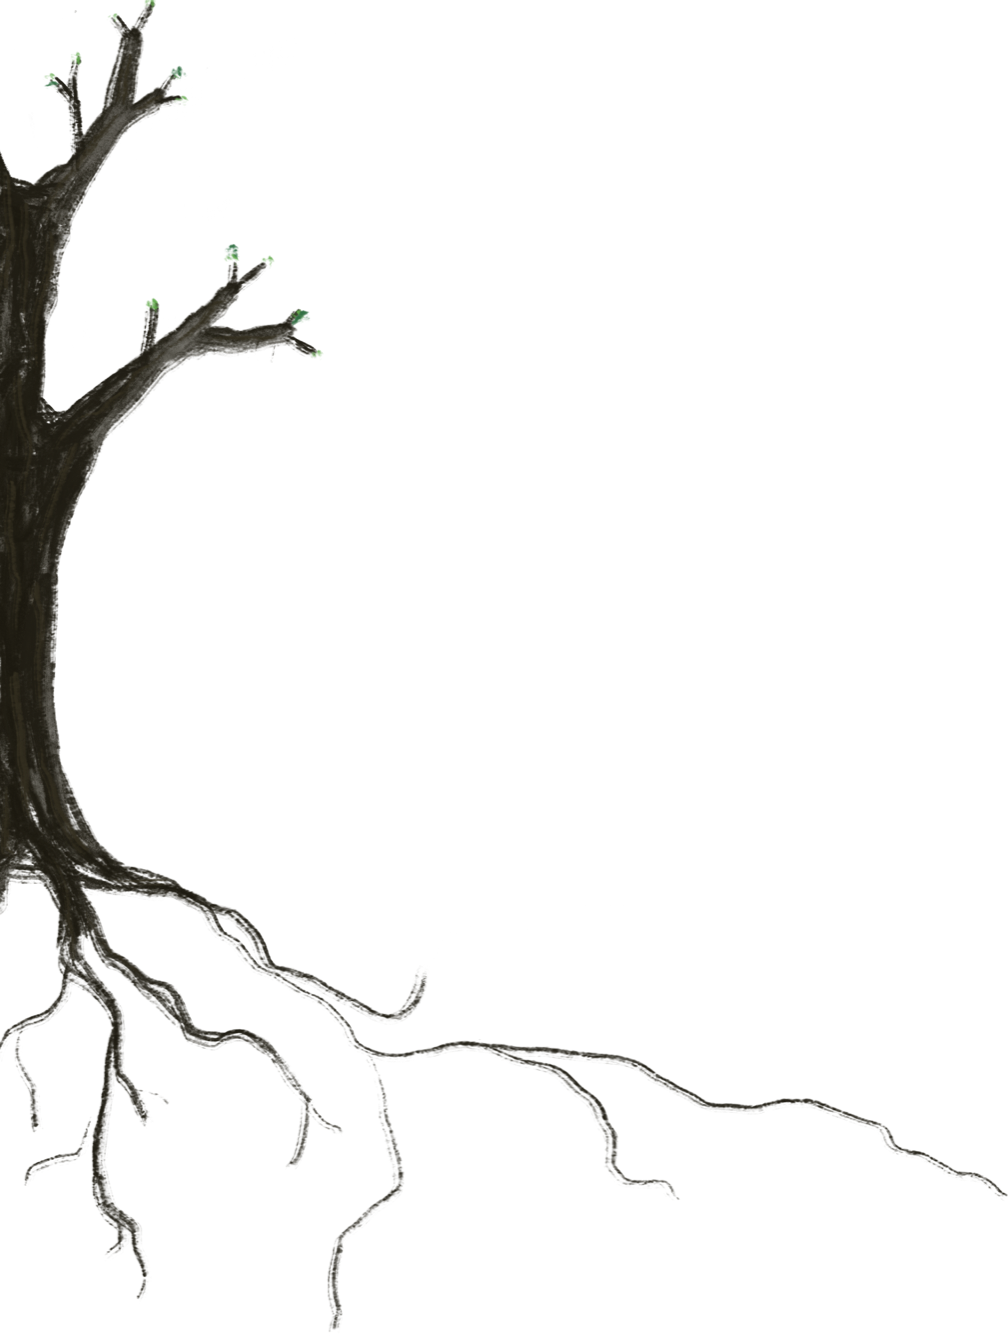
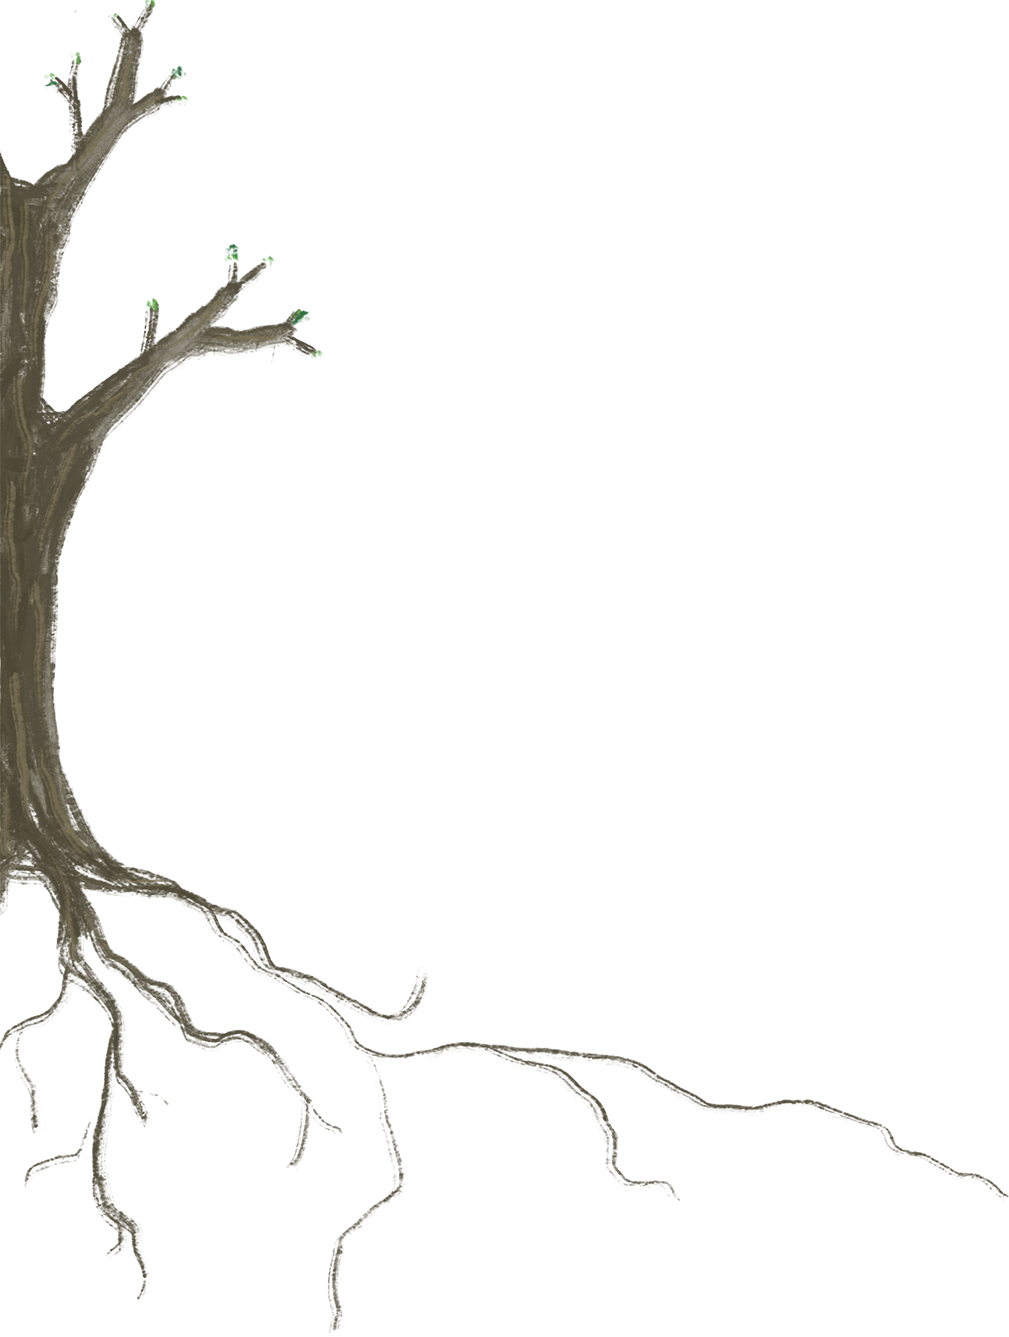
illu

diff --git a/retreat.css b/retreat.css
@@ -33,6 +33,7 @@
   --hero-tekst: #f3ecde;
   --hero-label: #c9bfae;
   --hero-zin: #b9ab9a;
+  --hero-feitje: #4f6c86; /* de feitjes die verschijnen bij de groenten en de boom */
   --knop-hover: #1b2233;
 
   --licht: #f6e2b5; /* de maan */
@@ -60,6 +61,7 @@
   --hero-tekst: #2a2420;
   --hero-label: #56616a;
   --hero-zin: #6f5f50;
+  --hero-feitje: #7295ac;
   --knop-hover: #f7f4ec;
 
   --licht: #f6d06b; /* de zon */
@@ -270,8 +272,14 @@ h3 {
 
 /* twee lagen die in elkaar overlopen als je wisselt: per stand een lucht en een bodem */
 .hero {
-  --veg-h: clamp(140px, 20vw, 280px); /* hoogte van de getekende groenten (de boerenkool) */
-  --diep: calc(var(--veg-h) * 0.75); /* hoeveel ruimte er onder de grondlijn is voor de wortels */
+  --veg-h: clamp(
+    140px,
+    20vw,
+    280px
+  ); /* hoogte van de getekende groenten (de boerenkool) */
+  --diep: calc(
+    var(--veg-h) * 0.75
+  ); /* hoeveel ruimte er onder de grondlijn is voor de wortels */
   --zin-ruimte: 200px; /* hoeveel aarde er onder de groenten zit */
 }
 
@@ -644,6 +652,16 @@ h3 {
 /* hier komen de getekende groenten (png met transparante achtergrond).
    elke groente heeft een eigen formaat via --s in de html: 1 is de standaardhoogte, 0.7 is kleiner */
 .groenten {
+  /* SPELEN MET DE AFSTANDEN: vw is een procent van de schermbreedte, dus 10vw = 10% van het scherm.
+     --tussen: de ruimte tussen de eerste twee groenten, en tussen de laatste twee
+     --midden: de lege plek in het midden, tussen de tweede en de derde groente
+     --boom-ruimte: extra ruimte links van de eerste groente, zodat die verder van de boom af staat.
+     de rij staat in het midden van het scherm: maak je --boom-ruimte groter en --midden
+     even veel kleiner, dan schuiven alleen de eerste twee groenten op en blijven de laatste twee staan */
+  --tussen: 5vw;
+  --midden: 35vw;
+  --boom-ruimte: 4vw;
+
   position: relative;
   z-index: 2;
   display: flex;
@@ -651,7 +669,7 @@ h3 {
   flex-wrap: nowrap; /* altijd naast elkaar, nooit een rij lager */
   justify-content: center;
   align-items: flex-end;
-  gap: clamp(8px, 7vw, 110px); /* ruimte tussen de groenten: groter getal = verder uit elkaar */
+  gap: var(--tussen);
   min-height: clamp(160px, 20vw, 260px);
   margin-top: 40px;
   padding: 0 16px;
@@ -660,12 +678,21 @@ h3 {
 /* als er te weinig breedte is, krimpen de plaatjes mee en blijven ze op de grondlijn staan */
 .groente {
   position: relative;
-  display: flex;
-  align-items: flex-end;
+  display: grid; /* zo liggen de winter- en de lenteversie precies op elkaar */
+  align-items: end;
   flex: 0 1 auto;
   min-width: 0;
   margin: 0;
   outline: none;
+}
+
+/* de derde groente krijgt de lege plek in het midden aan zijn linkerkant */
+.groente:nth-of-type(3) {
+  margin-left: var(--midden);
+}
+
+.groente:first-of-type {
+  margin-left: var(--boom-ruimte);
 }
 
 .groenten img {
@@ -678,6 +705,54 @@ h3 {
   object-position: 50% 100%;
   /* schuif het plaatje omlaag tot het stuk onder de grond (--g) precies onder de grondlijn zit */
   margin-bottom: calc(var(--diep) - var(--veg-h) * var(--s, 1) * var(--g, 0));
+  grid-area: 1 / 1;
+  transition: opacity 1s;
+}
+
+/* de winterversie en de lenteversie wisselen mee met de schakelaar (groenten en boom) */
+.groenten .v-lente,
+:root[data-thema="lente"] .groenten .v-winter {
+  opacity: 0;
+}
+
+:root[data-thema="lente"] .groenten .v-lente {
+  opacity: 1;
+}
+
+/* een groente met een class="v-hover" plaatje verandert daarin zolang je eroverheen beweegt
+   (in winter en lente). haal je de muis weg, dan wordt hij weer gewoon */
+/* met visibility in plaats van opacity: dan springt hij in één keer om, zonder dat je
+   de twee plaatjes even over elkaar ziet. de wissel winter/lente blijft wel zacht overvloeien */
+.groenten .v-hover {
+  visibility: hidden;
+  /* --hover-s: hoeveel groter het hover-plaatje is. 1 = even groot, 1.15 = 15% groter.
+     --hover-g: net als --g, maar dan voor het hover-plaatje: welk deel (van onderaf) onder de grond zit.
+     dat punt komt precies op de grondlijn, en vanuit daar groeit hij */
+  transform: translateY(calc((var(--hover-g, var(--g, 0)) - var(--g, 0)) * 100%)) scale(var(--hover-s, 1.15));
+  transform-origin: 50% calc((1 - var(--hover-g, var(--g, 0))) * 100%);
+}
+
+.groente:hover .v-hover {
+  visibility: visible;
+}
+
+/* het feitje schuift omhoog tot boven het (grotere) hover-plaatje, zodat het er niet doorheen loopt.
+   dit rekent uit hoeveel hoger de bovenkant van het hover-plaatje uitkomt dan die van de groente zelf */
+.groente:has(.v-hover) figcaption {
+  bottom: calc(
+    100% + 10px +
+      max(
+        0px,
+        var(--veg-h) * var(--s, 1) *
+          ((var(--hover-s, 1.15) - 1) * (1 - var(--hover-g, var(--g, 0))) -
+            (var(--hover-g, var(--g, 0)) - var(--g, 0)))
+      )
+  );
+}
+
+.groente:hover:has(.v-hover) .v-winter,
+.groente:hover:has(.v-hover) .v-lente {
+  visibility: hidden;
 }
 
 /* de boom: altijd vast aan de linkerrand, met de wortels op dezelfde grondlijn als de groenten */
@@ -687,7 +762,8 @@ h3 {
   bottom: calc(var(--diep) - var(--veg-h) * var(--s, 1) * var(--g, 0));
   height: calc(var(--veg-h) * var(--s, 1));
   aspect-ratio: 1506 / 1995;
-  pointer-events: none;
+  pointer-events: none; /* het plaatje is grotendeels leeg, dus alleen de stam reageert op de muis */
+  outline: none;
 }
 
 .boom img {
@@ -697,16 +773,51 @@ h3 {
   height: 100%;
   margin: 0;
   object-position: 0 100%;
-  transition: opacity 1s;
 }
 
-.boom .b-lente,
-:root[data-thema="lente"] .boom .b-winter {
+/* een onzichtbaar vlak over de stam: daar kun je overheen bewegen of op tikken */
+.boom::before {
+  content: "";
+  position: absolute;
+  z-index: 1;
+  left: 0;
+  top: 12%;
+  width: 18%;
+  bottom: calc(var(--g) * 100%);
+  pointer-events: auto;
+}
+
+/* bij hover komt de boom bovenop de groenten te liggen, zodat het tekstje niet achter de prei valt */
+.boom:hover,
+.boom:focus {
+  z-index: 3;
+}
+
+/* het tekstje hangt boven de boom, met een beetje ruimte tot de linkerrand */
+.boom-feitje {
+  position: absolute;
+  left: 16px;
+  bottom: calc(100% + 10px);
+  width: min(260px, 60vw);
+  margin: 0;
+  text-align: left;
+  font-size: 1rem;
+  font-style: italic;
+  line-height: 1.3;
+  color: var(--hero-feitje);
   opacity: 0;
+  transform: translateY(6px);
+  pointer-events: none;
+  transition:
+    opacity 0.4s,
+    transform 0.4s,
+    color 0.8s;
 }
 
-:root[data-thema="lente"] .boom .b-lente {
+.boom:hover .boom-feitje,
+.boom:focus .boom-feitje {
   opacity: 1;
+  transform: translateY(0);
 }
 
 /* een paar zinnetjes boven de groente, die verschijnen als je eroverheen beweegt (of erop tikt) */
@@ -717,8 +828,9 @@ h3 {
   width: min(210px, 60vw);
   transform: translate(-50%, 6px);
   font-size: 1rem;
+  font-style: italic;
   line-height: 1.3;
-  color: var(--hero-tekst);
+  color: var(--hero-feitje);
   opacity: 0;
   pointer-events: none;
   transition:

diff --git a/retreat.html b/retreat.html
@@ -210,31 +210,42 @@
                  meer groenten? kopieer een heel <figure> blok. andere volgorde? verplaats de blokken.
                  de tekst in <figcaption> verschijnt boven de groente als je eroverheen beweegt.
 
-                 de boom zit altijd vast aan de linkerrand, los van de rij. de winterboom en de lenteboom
-                 wisselen mee met de schakelaar. -->
-            <div class="boom" aria-hidden="true" style="--s:2.4; --g:.35">
-                <img class="b-winter" src="retreat-veg/boom-w.png" alt="">
-                <img class="b-lente" src="retreat-veg/boom-l.png" alt="">
+                 --s en --g staan op de <figure>, dus ze gelden voor de winter- én de lenteversie tegelijk.
+                 elke groente (en de boom) heeft twee plaatjes: class="v-winter" en class="v-lente".
+                 die wisselen mee met de schakelaar. de lenteversie moet even groot zijn als de winterversie.
+
+                 de boom zit altijd vast aan de linkerrand, los van de rij. -->
+            <!-- het tekstje bij de boom verschijnt als je over de stam beweegt -->
+            <div class="boom" tabindex="0" style="--s:2.5; --g:.32">
+                <img class="v-winter" src="retreat-veg/boom-w.png" alt="fruitboom">
+                <img class="v-lente" src="retreat-veg/boom-l.png" alt="">
+                <p class="boom-feitje">boom verhaaltje</p>
             </div>
-            <figure class="groente" tabindex="0">
-                <img src="retreat-veg/prei.png" alt="prei" style="--s:.99; --g:.28">
-                <figcaption>prei winterfeitje</figcaption>
+            <figure class="groente" tabindex="0" style="--s:0.9; --g:.20">
+                <img class="v-winter" src="retreat-veg/prei.png" alt="prei">
+                <img class="v-lente" src="retreat-veg/prei-l.png" alt="">
+                <figcaption>prei</figcaption>
             </figure>
-            <figure class="groente" tabindex="0">
-                <img src="retreat-veg/biet.png" alt="biet" style="--s:.67; --g:.53">
+            <figure class="groente" tabindex="0" style="--s:.65; --g:.22; --hover-s:1.5; --hover-g:.29">
+                <img class="v-winter" src="retreat-veg/biet.png" alt="biet">
+                <img class="v-lente" src="retreat-veg/biet-l.png" alt="">
+                <img class="v-hover" src="retreat-veg/biet-yoga.png" alt="">
                 <figcaption>biet winterfeitje
                 </figcaption>
             </figure>
-            <figure class="groente" tabindex="0">
-                <img src="retreat-veg/boerenkool.png" alt="boerenkool" style="--s:1; --g:.35">
-                <figcaption>boerenkool winterfeitje
-                </figcaption>
-            </figure>
-            <figure class="groente" tabindex="0">
-                <img src="retreat-veg/pastinaak.png" alt="pastinaak" style="--s:1.13; --g:.65">
+            <figure class="groente" tabindex="0" style="--s:.8; --g:.4">
+                <img class="v-winter" src="retreat-veg/pastinaak.png" alt="pastinaak">
+                <img class="v-lente" src="retreat-veg/pastinaak-l.png" alt="">
                 <figcaption>pastinaak winterfeitje
                 </figcaption>
             </figure>
+            <figure class="groente" tabindex="0" style="--s:0.9; --g:.20">
+                <img class="v-winter" src="retreat-veg/boerenkool.png" alt="boerenkool">
+                <img class="v-lente" src="retreat-veg/boerenkool-l.png" alt="">
+                <figcaption>boerenkool winterfeitje
+                </figcaption>
+            </figure>
+
         </div>
 
         <p class="grondzin"><i>de winter is minder kaal dan ze lijkt...<br> alle energie zit onder de grond!</i></p>
@@ -419,8 +430,20 @@
 
 
         <div class="boekwidget">
-           <!-- Ticket Tailor Widget. Paste this into your website where you want the widget to appear. Do not change the code or the widget may not work properly. -->
-<div class="tt-widget"><div class="tt-widget-fallback"><p><a href="https://www.tickettailor.com/all-tickets/deverrehoeve/?ref=website_widget&show_search_filter=true&show_date_filter=true&show_sort=true" target="_blank">Click here to buy tickets</a><br /><small><a href="https://www.tickettailor.com?rf=wdg_349340" class="tt-widget-powered">Sell tickets online with Ticket Tailor</a></small></p></div><script src="https://cdn.tickettailor.com/js/widgets/min/widget.js" data-url="https://www.tickettailor.com/all-tickets/deverrehoeve/?ref=website_widget&show_search_filter=true&show_date_filter=true&show_sort=true" data-type="inline" data-inline-minimal="true" data-inline-show-logo="false" data-inline-bg-fill="true" data-inline-inherit-ref-from-url-param="" data-inline-ref="website_widget"></script></div><!-- End of Ticket Tailor Widget -->
+            <!-- Ticket Tailor Widget. Paste this into your website where you want the widget to appear. Do not change the code or the widget may not work properly. -->
+            <div class="tt-widget">
+                <div class="tt-widget-fallback">
+                    <p><a href="https://www.tickettailor.com/all-tickets/deverrehoeve/?ref=website_widget&show_search_filter=true&show_date_filter=true&show_sort=true"
+                            target="_blank">Click here to buy tickets</a><br /><small><a
+                                href="https://www.tickettailor.com?rf=wdg_349340" class="tt-widget-powered">Sell tickets
+                                online with Ticket Tailor</a></small></p>
+                </div>
+                <script src="https://cdn.tickettailor.com/js/widgets/min/widget.js"
+                    data-url="https://www.tickettailor.com/all-tickets/deverrehoeve/?ref=website_widget&show_search_filter=true&show_date_filter=true&show_sort=true"
+                    data-type="inline" data-inline-minimal="true" data-inline-show-logo="false"
+                    data-inline-bg-fill="true" data-inline-inherit-ref-from-url-param=""
+                    data-inline-ref="website_widget"></script>
+            </div><!-- End of Ticket Tailor Widget -->
         </div>
 
         <p>vragen? <a href="mailto:reneesfarm.events@gmail.com">stuur ons een mailtje</a></p>
